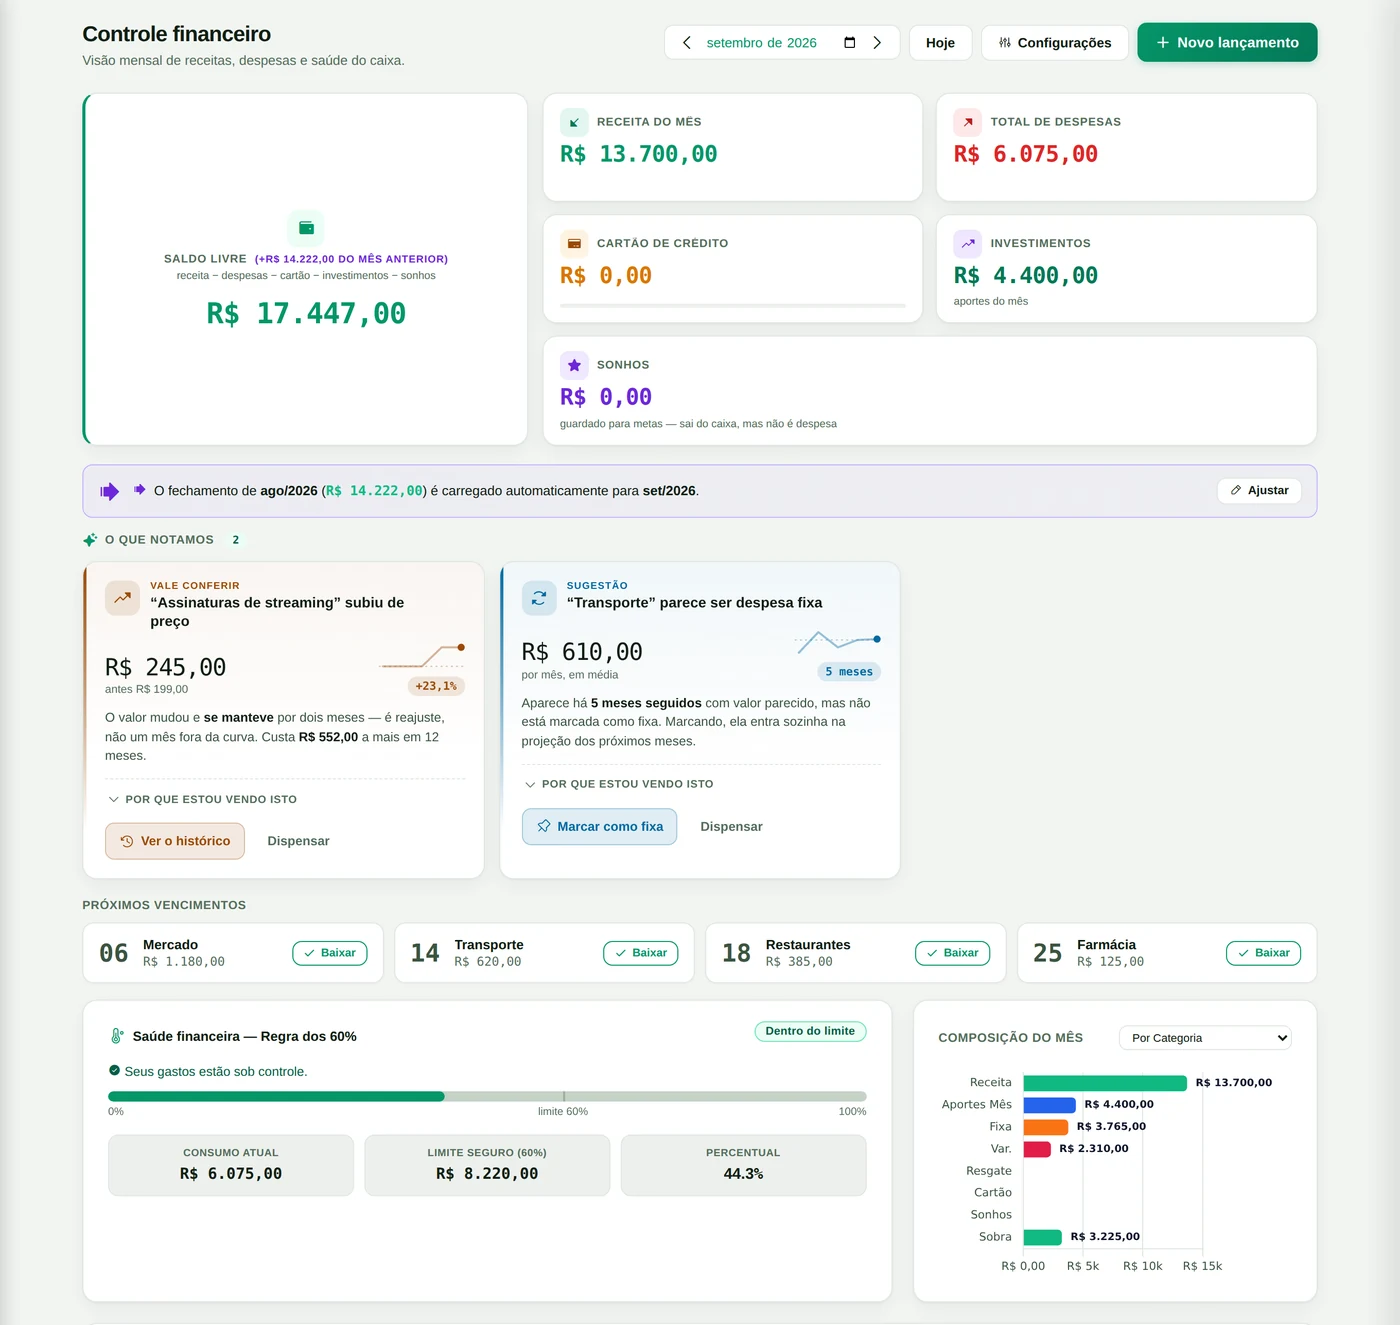
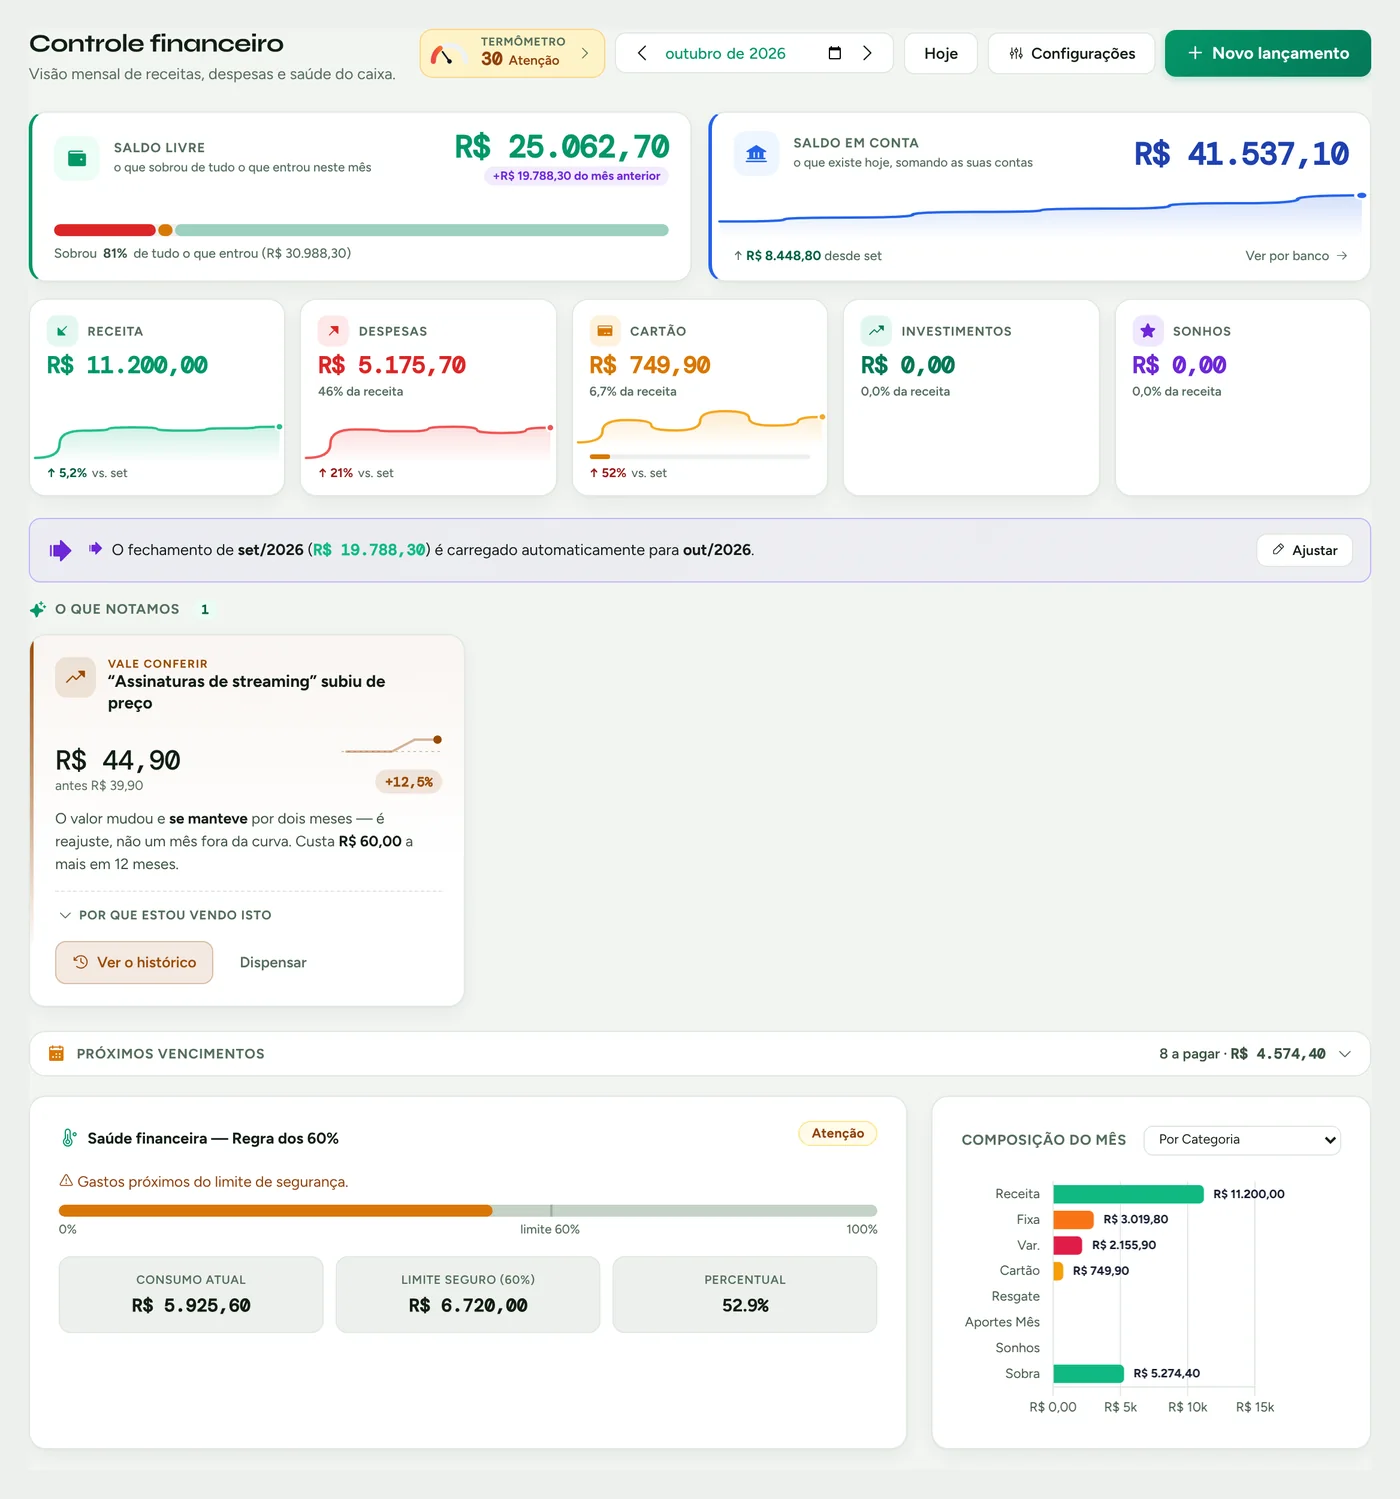
feat(landing): novidade do Telegram e print do Controle atualizado
Novidade: seção "Gastou? Mande uma mensagem no Telegram" na moldura do
"Sistema inteligente" — texto com os formatos que o bot entende, print REAL
do app no instante em que os lançamentos chegam (o aviso "3 lançamentos do
Telegram entraram" é do app, gerado por telegramAplicarItens) e um balão com
o exemplo da conversa. O balão é exemplo do formato, não print do Telegram, e
a legenda diz isso. Sem falar em IA: o plano Pro + IA segue "em construção".
Também: um item no hero (com selo "Novo"), um no plano Pro e uma pergunta no
FAQ. Nenhuma seção existente foi reescrita.

Print trocado: controle-financeiro.webp mostrava o layout antigo do Controle
(sem Termômetro nem "Saldo em conta"). O novo sai do app rodando local, rede
fechada, Firebase abortado — nada toca produção — com cinco meses de
lançamentos de demonstração, mesmo recorte do anterior (topo → Saúde e
Composição do mês). Só as dimensões mudaram no HTML (1400×1499).

Trava nova em landing-diferenciais: a seção existe, usa print real, diz que a
conversa é exemplo, não promete IA e vem antes dos planos.

Claude-Session: https://claude.ai/code/session_01D5uRTT9tbYEfX2FfBv8Gn4

diff --git a/landing.html b/landing.html
@@ -592,6 +592,21 @@
      para o plano de IA — as duas coisas que o visitante conclui errado se
      não estiverem escritas. */
   .inteligente-nota { margin-top: 20px; font-size: 12.5px; line-height: 1.55; color: var(--muted); background: var(--bg); border: 1px solid var(--line); border-radius: var(--radius-sm); padding: 11px 14px; }
+  /* Novidade: Telegram. Reusa a moldura do .inteligente; o balão de
+     conversa sobrepõe o canto do print no desktop e empilha no celular. */
+  .hero-novo { display: inline-block; margin-left: 6px; padding: 1px 7px; border-radius: 999px; background: #34d399; color: #052e1f; font-size: 10.5px; font-weight: 700; letter-spacing: .06em; text-transform: uppercase; vertical-align: 1px; }
+  .telegram { background: var(--bg); }
+  .telegram-fig { position: relative; }
+  .tg-chat { position: absolute; left: -18px; bottom: 34px; width: 54%; max-width: 300px; display: grid; gap: 8px; padding: 12px; border-radius: 16px; background: #e8eef3; box-shadow: 0 18px 40px rgba(15,23,42,.18); font-size: 12.5px; line-height: 1.45; color: #0f172a; }
+  .tg-msg { padding: 8px 11px; border-radius: 13px; max-width: 92%; }
+  .tg-eu { justify-self: end; background: #d9fdd3; border-bottom-right-radius: 4px; font-weight: 600; }
+  .tg-bot { justify-self: start; background: #fff; border-bottom-left-radius: 4px; }
+  .tg-bot i { color: #64748b; font-style: italic; }
+  .tg-botoes { display: grid; grid-template-columns: 1fr 1fr; gap: 5px; margin-top: 8px; }
+  .tg-botoes span { text-align: center; padding: 5px 4px; border-radius: 8px; background: #f1f5f9; color: #2563eb; font-weight: 600; font-size: 11.5px; }
+  @media (max-width: 880px) {
+    .tg-chat { position: relative; left: auto; bottom: auto; width: auto; max-width: none; margin: 14px 0 0; box-shadow: none; }
+  }
   .inteligente-nota i { color: var(--emerald-dark); font-size: 15px; vertical-align: -2px; margin-right: 5px; }
   @media (max-width: 900px) {
     .inteligente { padding: 42px 0; }
@@ -675,6 +690,7 @@
         <li><i class="ph-fill ph-check-circle"></i> Tudo o que você tem, somado num lugar só</li>
         <li><i class="ph-fill ph-check-circle"></i> O próximo aporte com o cálculo à vista e a simulação de rentabilidade, ativo por ativo</li>
         <li><i class="ph-fill ph-check-circle"></i> Controle de despesas na palma da mão</li>
+        <li><i class="ph-fill ph-check-circle"></i> <span>Lance um gasto mandando uma mensagem no Telegram <span class="hero-novo">Novo</span></span></li>
         <li><i class="ph-fill ph-check-circle"></i> Metas, relatório mensal e trilha de estudo no mesmo plano</li>
       </ul>
       <div class="hero-actions">
@@ -698,7 +714,7 @@
              metade da promessa. Sozinha, a tela de investimentos deixava
              essa metade só no texto. -->
         <div class="shot hero-shot-2">
-          <img src="prints/controle-financeiro.webp" width="1400" height="1325" alt="Tela Controle financeiro da Appliquei: saldo livre do mês, receitas e despesas lançadas e a régua da regra dos 60%." decoding="async">
+          <img src="prints/controle-financeiro.webp" width="1400" height="1499" alt="Tela Controle financeiro da Appliquei: saldo livre do mês, receitas e despesas lançadas e a régua da regra dos 60%." decoding="async">
         </div>
       </div>
       <div class="shot-legenda"><i class="ph-fill ph-camera"></i> Telas reais da Appliquei. Dados de demonstração.</div>
@@ -796,7 +812,7 @@
           </ul>
         </div>
         <figure class="ato-fig">
-          <img src="prints/controle-financeiro.webp" width="1400" height="1325" alt="Tela Controle financeiro da Appliquei com saldo livre do mês, receitas, despesas e a régua da regra dos 60%." loading="lazy" decoding="async">
+          <img src="prints/controle-financeiro.webp" width="1400" height="1499" alt="Tela Controle financeiro da Appliquei com saldo livre do mês, receitas, despesas e a régua da regra dos 60%." loading="lazy" decoding="async">
         </figure>
         <div class="ato-legenda"><i class="ph-fill ph-camera"></i> Tela real da Appliquei. Dados de demonstração.</div>
       </article>
@@ -930,6 +946,51 @@
   </div>
 </section>
 
+<!-- ============================================================
+     NOVIDADE — lançar pelo Telegram
+     ============================================================
+     Mesma moldura do "Sistema inteligente": texto de um lado, print real do
+     outro. O balão de conversa é um EXEMPLO do formato (as frases e a
+     resposta são as que o bot de verdade entende e devolve), não um print
+     do Telegram — por isso a legenda diz "exemplo" e o print ao lado é a
+     tela real do app no instante em que os lançamentos entram.
+
+     Não falar em IA aqui: o plano Pro + IA está "em construção" logo
+     abaixo, e prometer IA nesta seção desmentiria a grade de planos. -->
+<section id="telegram" class="inteligente telegram">
+  <div class="container inteligente-grid">
+    <div class="inteligente-texto">
+      <span class="dif-selo"><i class="ph-fill ph-telegram-logo"></i> Novidade</span>
+      <h2>Gastou? Mande uma mensagem no Telegram e o lançamento está feito</h2>
+      <p>Conecte o seu Telegram em Configurações e lance despesas e receitas sem abrir o app. A Appliquei entende o valor, a data, a conta e a categoria, e o lançamento entra no Controle financeiro como se você tivesse digitado lá.</p>
+      <ul class="dif-lista">
+        <li><i class="ph-fill ph-shopping-cart"></i><span><strong>"mercado 52,90"</strong> vira despesa paga na sua conta principal, já na categoria Alimentação.</span></li>
+        <li><i class="ph-fill ph-credit-card"></i><span><strong>"nubank 300 tênis 3x"</strong> vira compra parcelada no cartão, cada parcela na fatura certa.</span></li>
+        <li><i class="ph-fill ph-arrows-clockwise"></i><span><strong>"+3500 salário"</strong> e <strong>"aluguel 1800 fixa dia 10"</strong>: receitas e despesas fixas com vencimento também entram.</span></li>
+        <li><i class="ph-fill ph-arrow-u-up-left"></i><span><strong>Errou? Um toque desfaz.</strong> Toda resposta tem os botões Desfazer e Categoria, e o bot aprende a categoria que você corrigir.</span></li>
+      </ul>
+      <p class="inteligente-nota"><i class="ph-fill ph-lock-key"></i> Incluído no plano, sem custo extra. Só lança na sua conta o Telegram que você conectou pelo app, com um link de uso único, e você desconecta quando quiser.</p>
+    </div>
+    <figure class="inteligente-fig telegram-fig">
+      <div class="shot">
+        <img src="prints/telegram-lancamentos.webp" width="1400" height="1027" alt="Tela Controle financeiro da Appliquei no instante em que chegam lançamentos enviados pelo Telegram, com o aviso 3 lançamentos do Telegram entraram no canto da tela." loading="lazy" decoding="async">
+      </div>
+      <div class="tg-chat" role="img" aria-label="Exemplo de conversa: a pessoa manda mercado 52,90 e o bot da Appliquei responde Despesa lançada, Mercado, 52 reais e 90 centavos, Alimentação, conta Nubank, com os botões Desfazer e Categoria.">
+        <div class="tg-msg tg-eu">mercado 52,90</div>
+        <div class="tg-msg tg-bot">
+          <b>✅ Despesa lançada</b><br>
+          Mercado · <b>R$ 52,90</b><br>
+          🛒 Alimentação<br>
+          🏦 Nubank<br>
+          <i>Aparece no app assim que ele abrir.</i>
+          <span class="tg-botoes"><span>↩ Desfazer</span><span>🏷 Categoria</span></span>
+        </div>
+      </div>
+      <figcaption class="shot-legenda"><i class="ph-fill ph-camera"></i> Tela real da Appliquei. Dados de demonstração. A conversa é um exemplo.</figcaption>
+    </figure>
+  </div>
+</section>
+
 <section class="block" id="comecar">
   <div class="container">
     <div class="section-head">
@@ -979,6 +1040,7 @@
         <ul class="plan-list">
           <li><i class="ph-fill ph-check-circle"></i> Sistema inteligente que lê os seus lançamentos</li>
           <li><i class="ph-fill ph-check-circle"></i> Patrimônio, investimentos e controle financeiro</li>
+          <li><i class="ph-fill ph-check-circle"></i> Lançamentos pelo Telegram, com uma mensagem</li>
           <li><i class="ph-fill ph-check-circle"></i> Carteira sugerida e relatório mensal</li>
           <li><i class="ph-fill ph-check-circle"></i> Simulador de liberdade e metas (Sonhos)</li>
           <li><i class="ph-fill ph-check-circle"></i> Jornada Financeira (aulas) e Info Mercado</li>
@@ -1085,6 +1147,7 @@
       <details class="faq"><summary>Preciso cadastrar cartão para começar?</summary><p>Não. Os 7 dias são liberados sem cartão. Ao final do trial, você decide se quer assinar — escolhendo PIX, boleto ou cartão recorrente.</p></details>
       <details class="faq"><summary>O que acontece quando termina o trial?</summary><p>O acesso fica bloqueado e mostramos a tela de assinatura. Nada é cobrado automaticamente.</p></details>
       <details class="faq"><summary>Posso cancelar quando quiser?</summary><p>Sim. O cancelamento é imediato pelo painel "Minha assinatura". Sem multas, sem fidelidade.</p></details>
+      <details class="faq"><summary>Como funciona o lançamento pelo Telegram?</summary><p>No app, em Configurações, você escolhe a conta principal e toca em "Conectar Telegram". Daí é só mandar mensagens como "mercado 52,90" ou "nubank 300 tênis 3x" para o bot da Appliquei: ele responde com o que lançou, e cada resposta tem os botões Desfazer e Categoria. Está incluído no plano, sem custo extra, e você desconecta quando quiser.</p></details>
       <details class="faq"><summary>Quais formas de pagamento?</summary><p>PIX, boleto e cartão de crédito recorrente, todos via Asaas — gateway brasileiro com cobrança em real.</p></details>
       <details class="faq"><summary>Quando o Pro + IA fica disponível?</summary><p>Está em construção. Quem está no Pro recebe um aviso e pode migrar com um clique quando lançarmos, sem perder o histórico.</p></details>
       <details class="faq"><summary>Como funciona o Applicash?</summary><p>É o programa de indicações. Cada pessoa que assina com o seu cupom devolve 10% do valor pago como crédito na sua própria mensalidade, todo mês, enquanto a assinatura dela estiver ativa — e quem entra pelo seu cupom começa com 10% de desconto. Com 12 indicações ativas, a mensalidade zera. O crédito abate na sua cobrança; não é resgate em dinheiro.</p></details>

diff --git a/test/landing-diferenciais.test.js b/test/landing-diferenciais.test.js
@@ -284,3 +284,21 @@ test('o disclaimer do app continua tendo as seções que a landing promete abrir
   assert.match(titulos, /Ausência de recomendação automática individualizada/);
   assert.match(titulos, /Ausência de garantia de rentabilidade/);
 });
+
+// ---------------------------------------------------------------------------
+// 4. Novidade: lançar pelo Telegram
+// ---------------------------------------------------------------------------
+
+test('a novidade do Telegram tem seção própria, com print real e sem prometer IA', () => {
+  const m = VISIVEL.match(/<section id="telegram"[\s\S]*?<\/section>/);
+  assert.ok(m, 'seção #telegram ausente');
+  const sec = m[0];
+  assert.match(sec, /src="prints\/telegram-lancamentos\.webp"/, 'o print é tela real do app');
+  assert.match(sec, /Dados de demonstração/);
+  // O balão é exemplo do formato, não print do Telegram — e a legenda diz isso.
+  assert.match(sec, /A conversa é um exemplo/);
+  // O plano "Pro + IA" está em construção: esta seção não pode falar em IA.
+  assert.doesNotMatch(sec.replace(/<[^>]+>/g, ' '), /\bIA\b|intelig[êe]ncia artificial/i);
+  // E vem antes dos planos, onde a venda acontece.
+  assert.ok(VISIVEL.indexOf('id="telegram"') < VISIVEL.indexOf('id="planos"'));
+});
